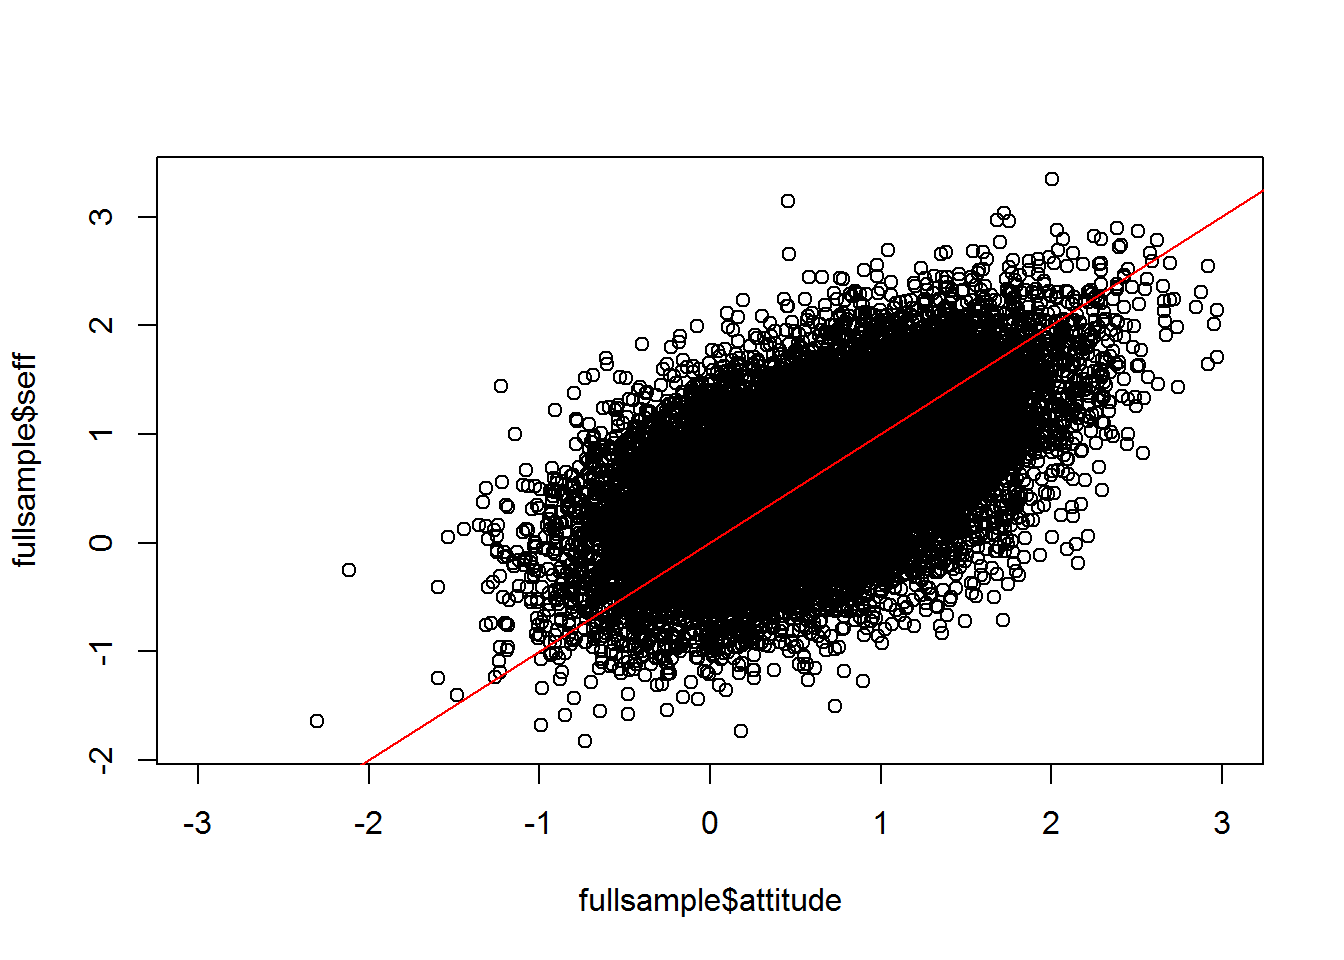
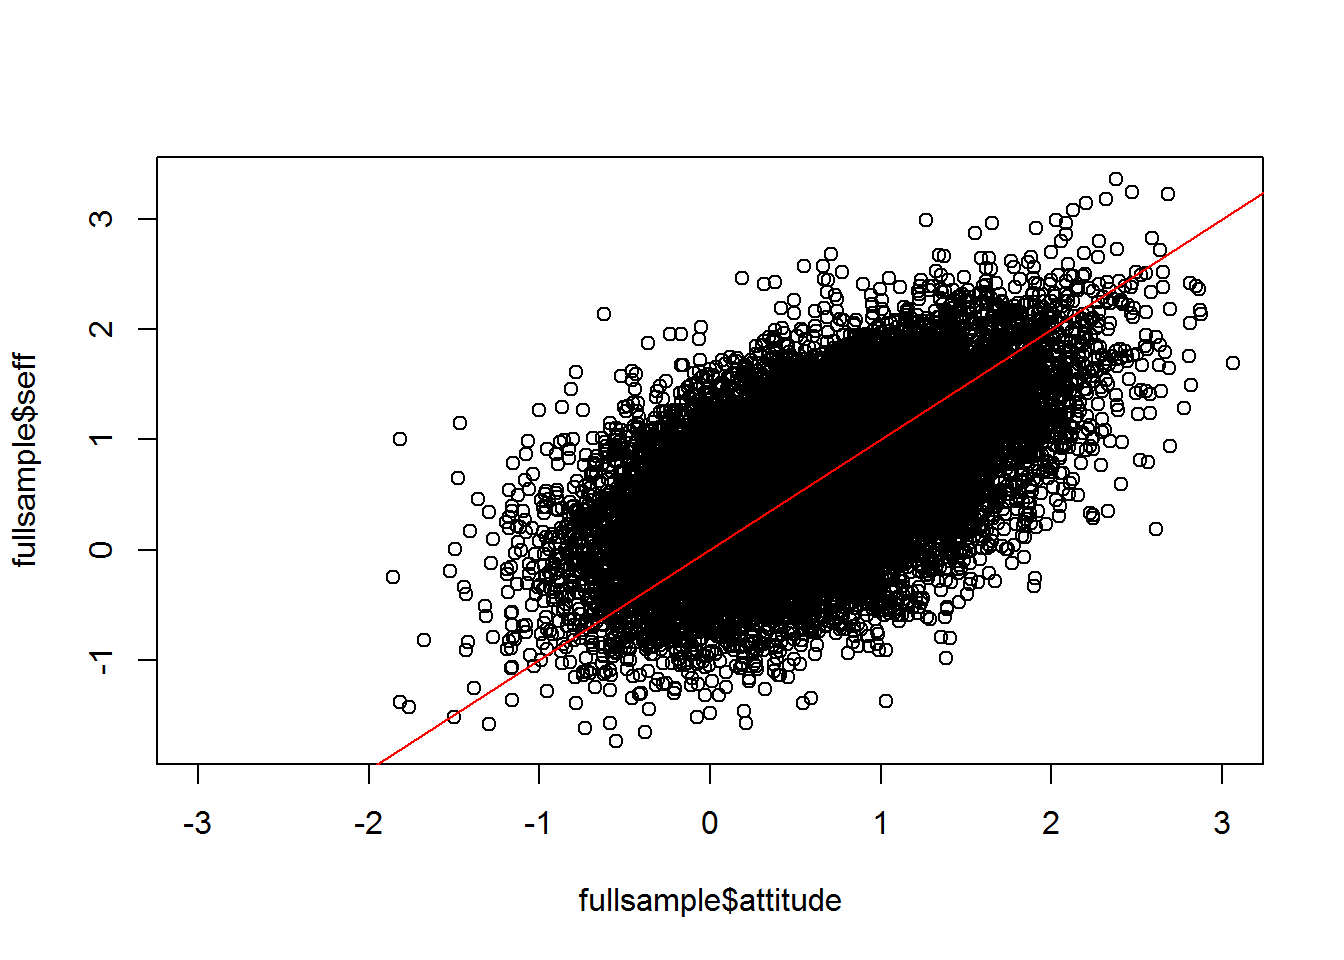
try again to update index.html

diff --git a/docs/determinants_RMD.html b/docs/determinants_RMD.html
@@ -323,13 +323,13 @@ div.tocify {
 <p><em>[…] Image we’re developing an intervention to promote the use of hearing protection, specifically earplugs, in Dutch nightlife settings. Further, imagine that earplugs are generally quite uncomfortable; diminish the experience of the music somewhat; are easy to carry; and don’t hinder conversation. People who have experience with using earplugs are aware of this, but people who don’t use earplugs have their own ideas which may be sensible but are often not.</em></p>
 <p><em>An intervention developer does a determinant study and in the questionnaire measures the following two attitudinal beliefs:</em></p>
 <ul>
-<li><em>â€œWhen I use earplugs, I experience an uncomfortable feeling in my ears.â€</em></li>
-<li><em>â€œWhen I use earplugs, my experience of the music is diminished.â€</em></li>
+<li><em>“When I use earplugs, I experience an uncomfortable feeling in my ears.”</em></li>
+<li><em>“When I use earplugs, my experience of the music is diminished.”</em></li>
 </ul>
 <p><em>And the following two self-efficacy beliefs:</em></p>
 <ul>
-<li><em>â€œEarplugs are easy to carry.â€</em></li>
-<li><em>â€œEarplugs hinder conversation.â€ (reverse coded)</em></li>
+<li><em>“Earplugs are easy to carry.”</em></li>
+<li><em>“Earplugs hinder conversation.” (reverse coded)</em></li>
 </ul>
 </div>
 <div id="the-simulation" class="section level1">
@@ -395,27 +395,27 @@ noexpertsample &lt;- makeScales(data.frame(noexpertsample), scales) %&gt;% data.
 <p>Here’s the correlation matrix for the sample that <strong>includes experts</strong>, as well as a scatterplot of attitude on the x-axis and self-efficacy on the y-axis:</p>
 <pre class="r"><code>expertsample %&gt;% dplyr::select(attitude, seff, outcome) %&gt;% cor() %&gt;% round(3)</code></pre>
 <pre><code>##          attitude  seff outcome
-## attitude    1.000 0.662   0.707
-## seff        0.662 1.000   0.909
-## outcome     0.707 0.909   1.000</code></pre>
+## attitude    1.000 0.668   0.713
+## seff        0.668 1.000   0.908
+## outcome     0.713 0.908   1.000</code></pre>
 <pre class="r"><code>plot(expertsample$attitude, expertsample$seff, xlim = c(-3, 3))
 lines(x = c(-10, 10), y = c(-10, 10), col = &quot;red&quot;)</code></pre>
 <p><img src="determinants_RMD_files/figure-html/unnamed-chunk-1-1.png" width="672" /></p>
 <p>This is for the sample that <strong>didn’t include experts</strong>:</p>
 <pre class="r"><code>noexpertsample %&gt;% dplyr::select(attitude, seff, outcome) %&gt;% cor() %&gt;% round(3)</code></pre>
 <pre><code>##          attitude  seff outcome
-## attitude    1.000 0.344   0.696
-## seff        0.344 1.000   0.913
-## outcome     0.696 0.913   1.000</code></pre>
+## attitude    1.000 0.341   0.693
+## seff        0.341 1.000   0.914
+## outcome     0.693 0.914   1.000</code></pre>
 <pre class="r"><code>plot(noexpertsample$attitude, noexpertsample$seff, xlim = c(-3, 3))
 lines(x = c(-10, 10), y = c(-10, 10), col = &quot;red&quot;)</code></pre>
 <p><img src="determinants_RMD_files/figure-html/unnamed-chunk-2-1.png" width="672" /></p>
 <p>And here’s the <strong>combined sample</strong>:</p>
 <pre class="r"><code>fullsample %&gt;% dplyr::select(attitude, seff, outcome) %&gt;% cor() %&gt;% round(3)</code></pre>
 <pre><code>##          attitude  seff outcome
-## attitude    1.000 0.539   0.685
-## seff        0.539 1.000   0.892
-## outcome     0.685 0.892   1.000</code></pre>
+## attitude    1.000 0.541   0.687
+## seff        0.541 1.000   0.891
+## outcome     0.687 0.891   1.000</code></pre>
 <pre class="r"><code>plot(fullsample$attitude, fullsample$seff, xlim = c(-3, 3))
 lines(x = c(-10, 10), y = c(-10, 10), col = &quot;red&quot;)</code></pre>
 <p><img src="determinants_RMD_files/figure-html/unnamed-chunk-3-1.png" width="672" /></p>
@@ -427,17 +427,17 @@ lines(x = c(-10, 10), y = c(-10, 10), col = &quot;red&quot;)</code></pre>
 <pre class="r"><code>m.expert &lt;- lm(scale(outcome) ~ scale(attitude) + scale(seff), data = expertsample) 
 m.expert$coefficients %&gt;% round(3)</code></pre>
 <pre><code>##     (Intercept) scale(attitude)     scale(seff) 
-##           0.000           0.186           0.786</code></pre>
+##           0.000           0.192           0.780</code></pre>
 <p>And the sample with no experts:</p>
 <pre class="r"><code>m.noexpert &lt;- lm(scale(outcome) ~ scale(attitude) + scale(seff), data = noexpertsample) 
 m.noexpert$coefficients %&gt;% round(3)</code></pre>
 <pre><code>##     (Intercept) scale(attitude)     scale(seff) 
-##           0.000           0.433           0.764</code></pre>
+##           0.000           0.431           0.767</code></pre>
 <p>… And finally, the full sample:</p>
 <pre class="r"><code>m.full &lt;- lm(scale(outcome) ~ scale(attitude) + scale(seff), data = fullsample)
 m.full$coefficients %&gt;% round(3)</code></pre>
 <pre><code>##     (Intercept) scale(attitude)     scale(seff) 
-##           0.000           0.287           0.737</code></pre>
+##           0.000           0.289           0.735</code></pre>
 </div>
 <div id="conclusion" class="section level2">
 <h2>Conclusion</h2>
